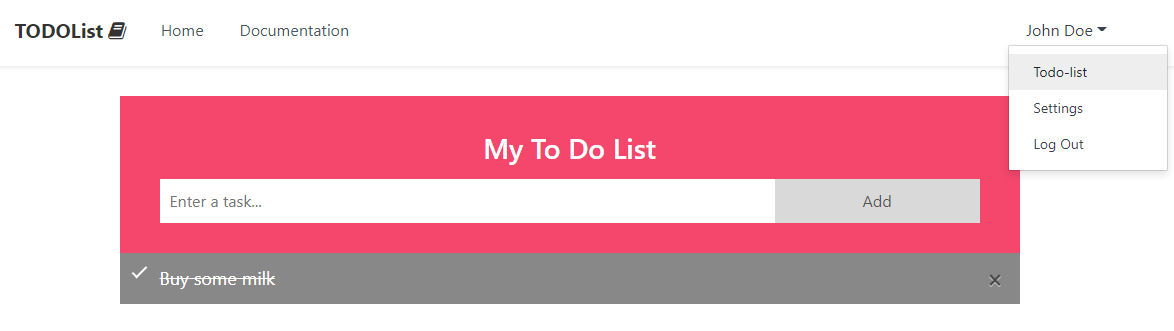
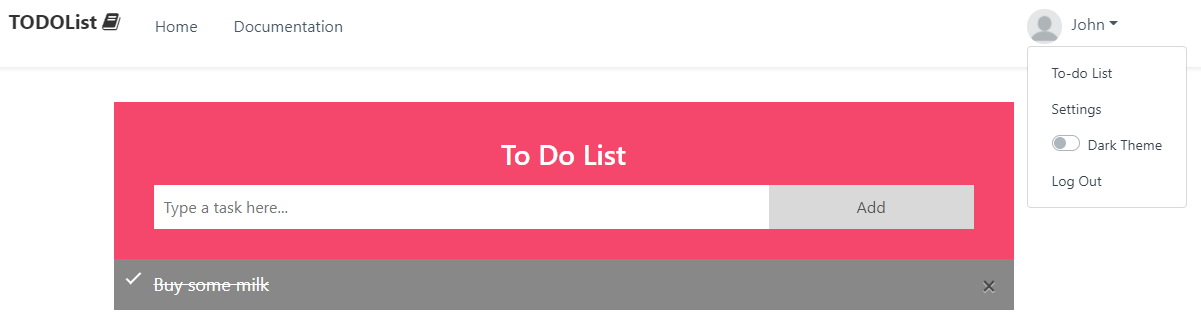
WHAT'S NEW
- Fixed Navbar
- Dark mode

diff --git a/public/assets/js/darkmode.js b/public/assets/js/darkmode.js
@@ -1,0 +1,44 @@
+
+const checkTheme = (isDark) => {
+    if (isDark) {
+        document.documentElement.classList.add('dark-mode')
+        document.querySelectorAll('.inverted-darkmode').forEach(result => {
+            result.classList.add('invert')
+        })
+    } else {
+        document.documentElement.classList.remove('dark-mode')
+        document.querySelectorAll('.inverted-darkmode').forEach(result => {
+            result.classList.remove('invert')
+        })
+    }
+}
+
+const isDarktheme = $('#darktheme').data('darktheme')
+checkTheme(isDarktheme)
+
+async function putData(url = '', data = {}) {
+    // Default options are marked with *
+    const response = await fetch(url, {
+      method: 'PUT', // *GET, POST, PUT, DELETE, etc.
+      headers: {'Content-Type': 'application/json'},
+      body: JSON.stringify(data) // body data type must match "Content-Type" header
+    })
+    return response.json() // parses JSON response into native JavaScript objects
+}
+
+$('#darkthemeBtn').click(() => {
+    const isEnableToken = $('#darkthemeBtn').is(':checked')
+    const _csrf = $('#csrf').val()
+    putData('profile', { darktheme:{enable: isEnableToken}, _csrf})
+    .then(data => {
+        console.log(data)
+         if (typeof data === 'boolean') {
+             console.log('Variable is ' + data)
+             checkTheme(data)
+         }
+    })
+})
+
+
+
+

diff --git a/models/facades/user_facade.js b/models/facades/user_facade.js
@@ -13,12 +13,14 @@ exports.login = async (userForm) => {
             if (util.validateUser(user, userForm)){
 
                 const {filename} = user.settings.find(s => s.settings == 'image')
+                const {darktheme} = user.settings.find(s => s.settings == 'property')
 
                 resolve({
                     id: user.id,
                     name: user.name,
                     email: user.email,
-                    profile: filename
+                    profile: filename,
+                    property: {darktheme}
                 })
             }
         }
@@ -50,6 +52,7 @@ exports.signup = async (userForm) => {
                 .setSettings({settings: 'auth', enable: false, token: ''})
                 .setSettings({settings: 'image', filename: '', originalname: ''})
                 .setSettings({settings: 'password_recovery', token: '', expirydate: ''})
+                .setSettings({settings: 'property', darktheme: false})
             // Checks if a user already exists. Otherwise a user is created.
             userDAO.set(user)
             resolve(email)

diff --git a/models/facades/settings_facade.js b/models/facades/settings_facade.js
@@ -42,6 +42,19 @@ exports.changeAuthorization = async ({id, email, auth}) => {
     return token
 }
 
+exports.changeTheme = async ({id, darktheme}) => {
+
+    const settingsDAO = new SettingsDAO()
+
+    const enable = darktheme.enable || false
+
+    return new Promise((resolve, reject) => {
+        settingsDAO.updateProperty({id, enable})
+        .then(() => resolve(enable))
+        .catch(() => reject(false))
+    })
+}
+
 exports.changePassword = async (userObject) => {
     
     const {email, password, confirmPassword} = userObject

diff --git a/controllers/settings/settingsController.js b/controllers/settings/settingsController.js
@@ -23,6 +23,17 @@ exports.setting_auth_update = async (req, res) => {
     .catch(() => res.json({}))    
 }
 
+exports.setting_theme_update = async (req, res) => {
+    const {id} = req.session.user
+    const {darktheme} = req.body
+    settingsFacade.changeTheme({id, darktheme})
+    .then((data) => {
+        req.session.user.property.darktheme = data
+        res.json(data)
+    })
+    .catch(() => res.json({}))    
+}
+
 exports.setting_password_post = async (req, res) => {
 
     const errors = validationResult(req)

diff --git a/models/dao/mongoDB/settings_dao.js b/models/dao/mongoDB/settings_dao.js
@@ -33,6 +33,18 @@ class SettingsDAO {
         )
     }
 
+    async updateProperty(settings) {
+        const {id, enable} = settings
+        return await User.updateOne(
+            {"_id": id, "settings.settings": "property"},
+            {
+                "$set": {
+                    "settings.$.darktheme": enable,
+                }
+            }
+        )
+    }
+
 }
 
 module.exports = SettingsDAO

diff --git a/public/assets/js/settings.js b/public/assets/js/settings.js
@@ -7,7 +7,7 @@ async function putData(url = '', data = {}) {
       body: JSON.stringify(data) // body data type must match "Content-Type" header
     })
     return response.json() // parses JSON response into native JavaScript objects
-  }
+}
 
 $('#copyToken').click(() => {
     $('#tokenField').select()

diff --git a/app.js b/app.js
@@ -51,6 +51,8 @@ app.use(session({
 const visitor = {access: 'visitor'}
 const auth = {access: 'auth'}
 
+
+
 app.use('/index', require('./routes/indexRoute'))
 app.use('/login', policy(visitor), require('./routes/user/loginRoute'))
 app.use('/signup', policy(visitor), require('./routes/user/signupRoute'))

diff --git a/routes/settings/profileRoute.js b/routes/settings/profileRoute.js
@@ -15,5 +15,6 @@ upload = multer({ storage: storage })
 
 router.get('/', settingsController.setting_index_get)
 router.post('/', upload.single('image'), settingsController.setting_profile_post)
+router.put('/', settingsController.setting_theme_update)
 
 module.exports = router

diff --git a/models/util/loggin_checker.js b/models/util/loggin_checker.js
@@ -15,9 +15,3 @@ module.exports.policy = (rule={}) => {
     }
 }
 
-
-// if (Boolean(rule)){
-//     const {auth} = rule
-//     if (req.session.user && auth == 'visitor')
-//         res.redirect('/404')
-// }

diff --git a/public/assets/css/darkmode.css b/public/assets/css/darkmode.css
@@ -1,0 +1,7 @@
+.dark-mode {
+    filter: invert(1) hue-rotate(180deg);
+}
+
+.invert {
+    filter: invert(1) hue-rotate(180deg);
+}

diff --git a/public/assets/js/dropdown_stopper.js b/public/assets/js/dropdown_stopper.js
@@ -1,0 +1,3 @@
+$('.dropdown-item').click(function(e) {
+    e.stopPropagation();
+});

diff --git a/DOCUMENTATION.md b/DOCUMENTATION.md
@@ -8,6 +8,7 @@
 - <a href="#closeTask">Close Tasks</a>
 - <a href="#optionMenu">Option Menu</a>
 - <a href="#changePassword">Change Password And Adding a Picture</a>
+- <a href="#darktheme">Change to Dark Theme</a>
 - <a href="#resetPassword">How to reset my password if I forger?</a>
 - <a href="#activateToken">Activate Token for API Access</a>
 - <a href="#useAPI">Using Token with API</a>
@@ -158,6 +159,31 @@ See below an example of a profile with a picture and changing the password.
 <br>
 
 ![text](/public/assets/img/ducumentation/img_8.2.png)
+
+<br>
+
+---
+
+<br>
+
+<h2 id="darktheme">Change to Dark Theme</h2>
+
+<br>
+
+Dark Theme is nowadays a trend in every web page, software, and even mobile phone application. Some people feel more comfortable with their eyes with a darker color. Some services out there charge for offering this feature, but we care about you, and our clients are in the first place for us. We offer you Dark Theme for free and is very easy to activate.<br>
+To activate the Dark Theme you have to log in first and then you can access your profile menu from anywhere. Click on the Dark Theme switch and the page should change.
+
+<br>
+
+![text](/public/assets/img/ducumentation/img_8.3.png)
+
+<br>
+
+If you want to change back to Light Theme you have o access your profile menu again and switch it off.
+
+<br>
+
+![text](/public/assets/img/ducumentation/img_8.4.png)
 
 <br>
 
